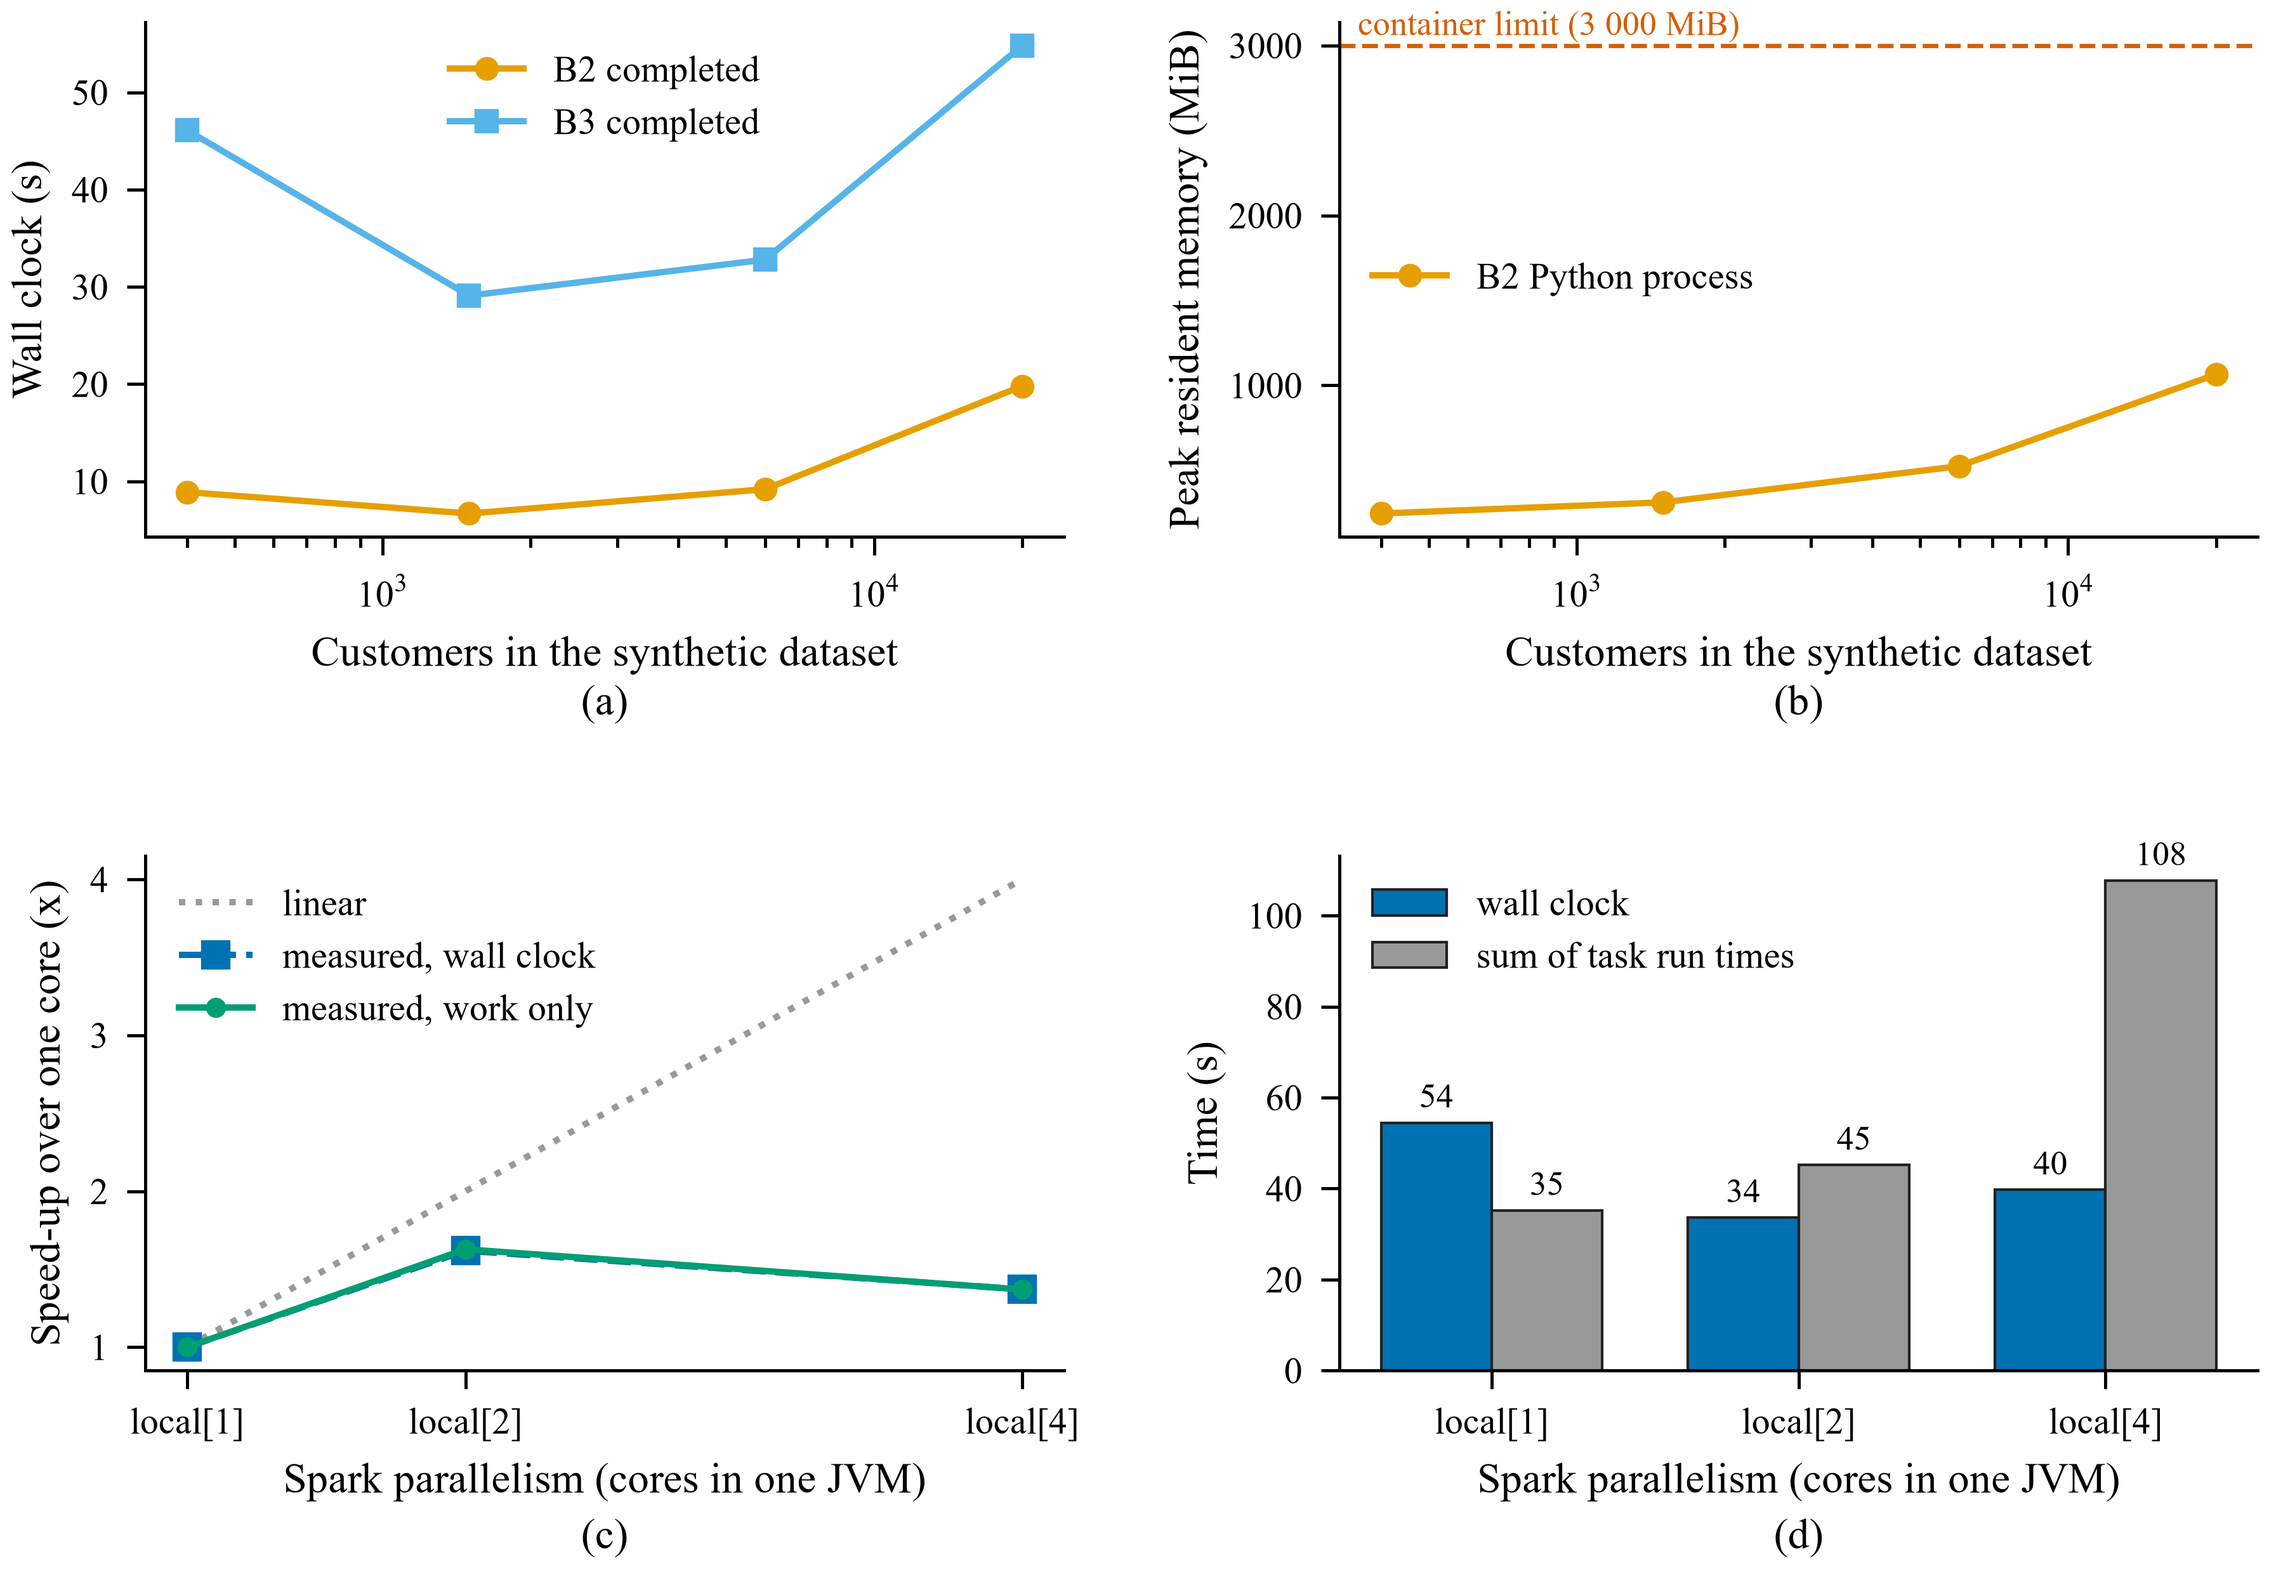
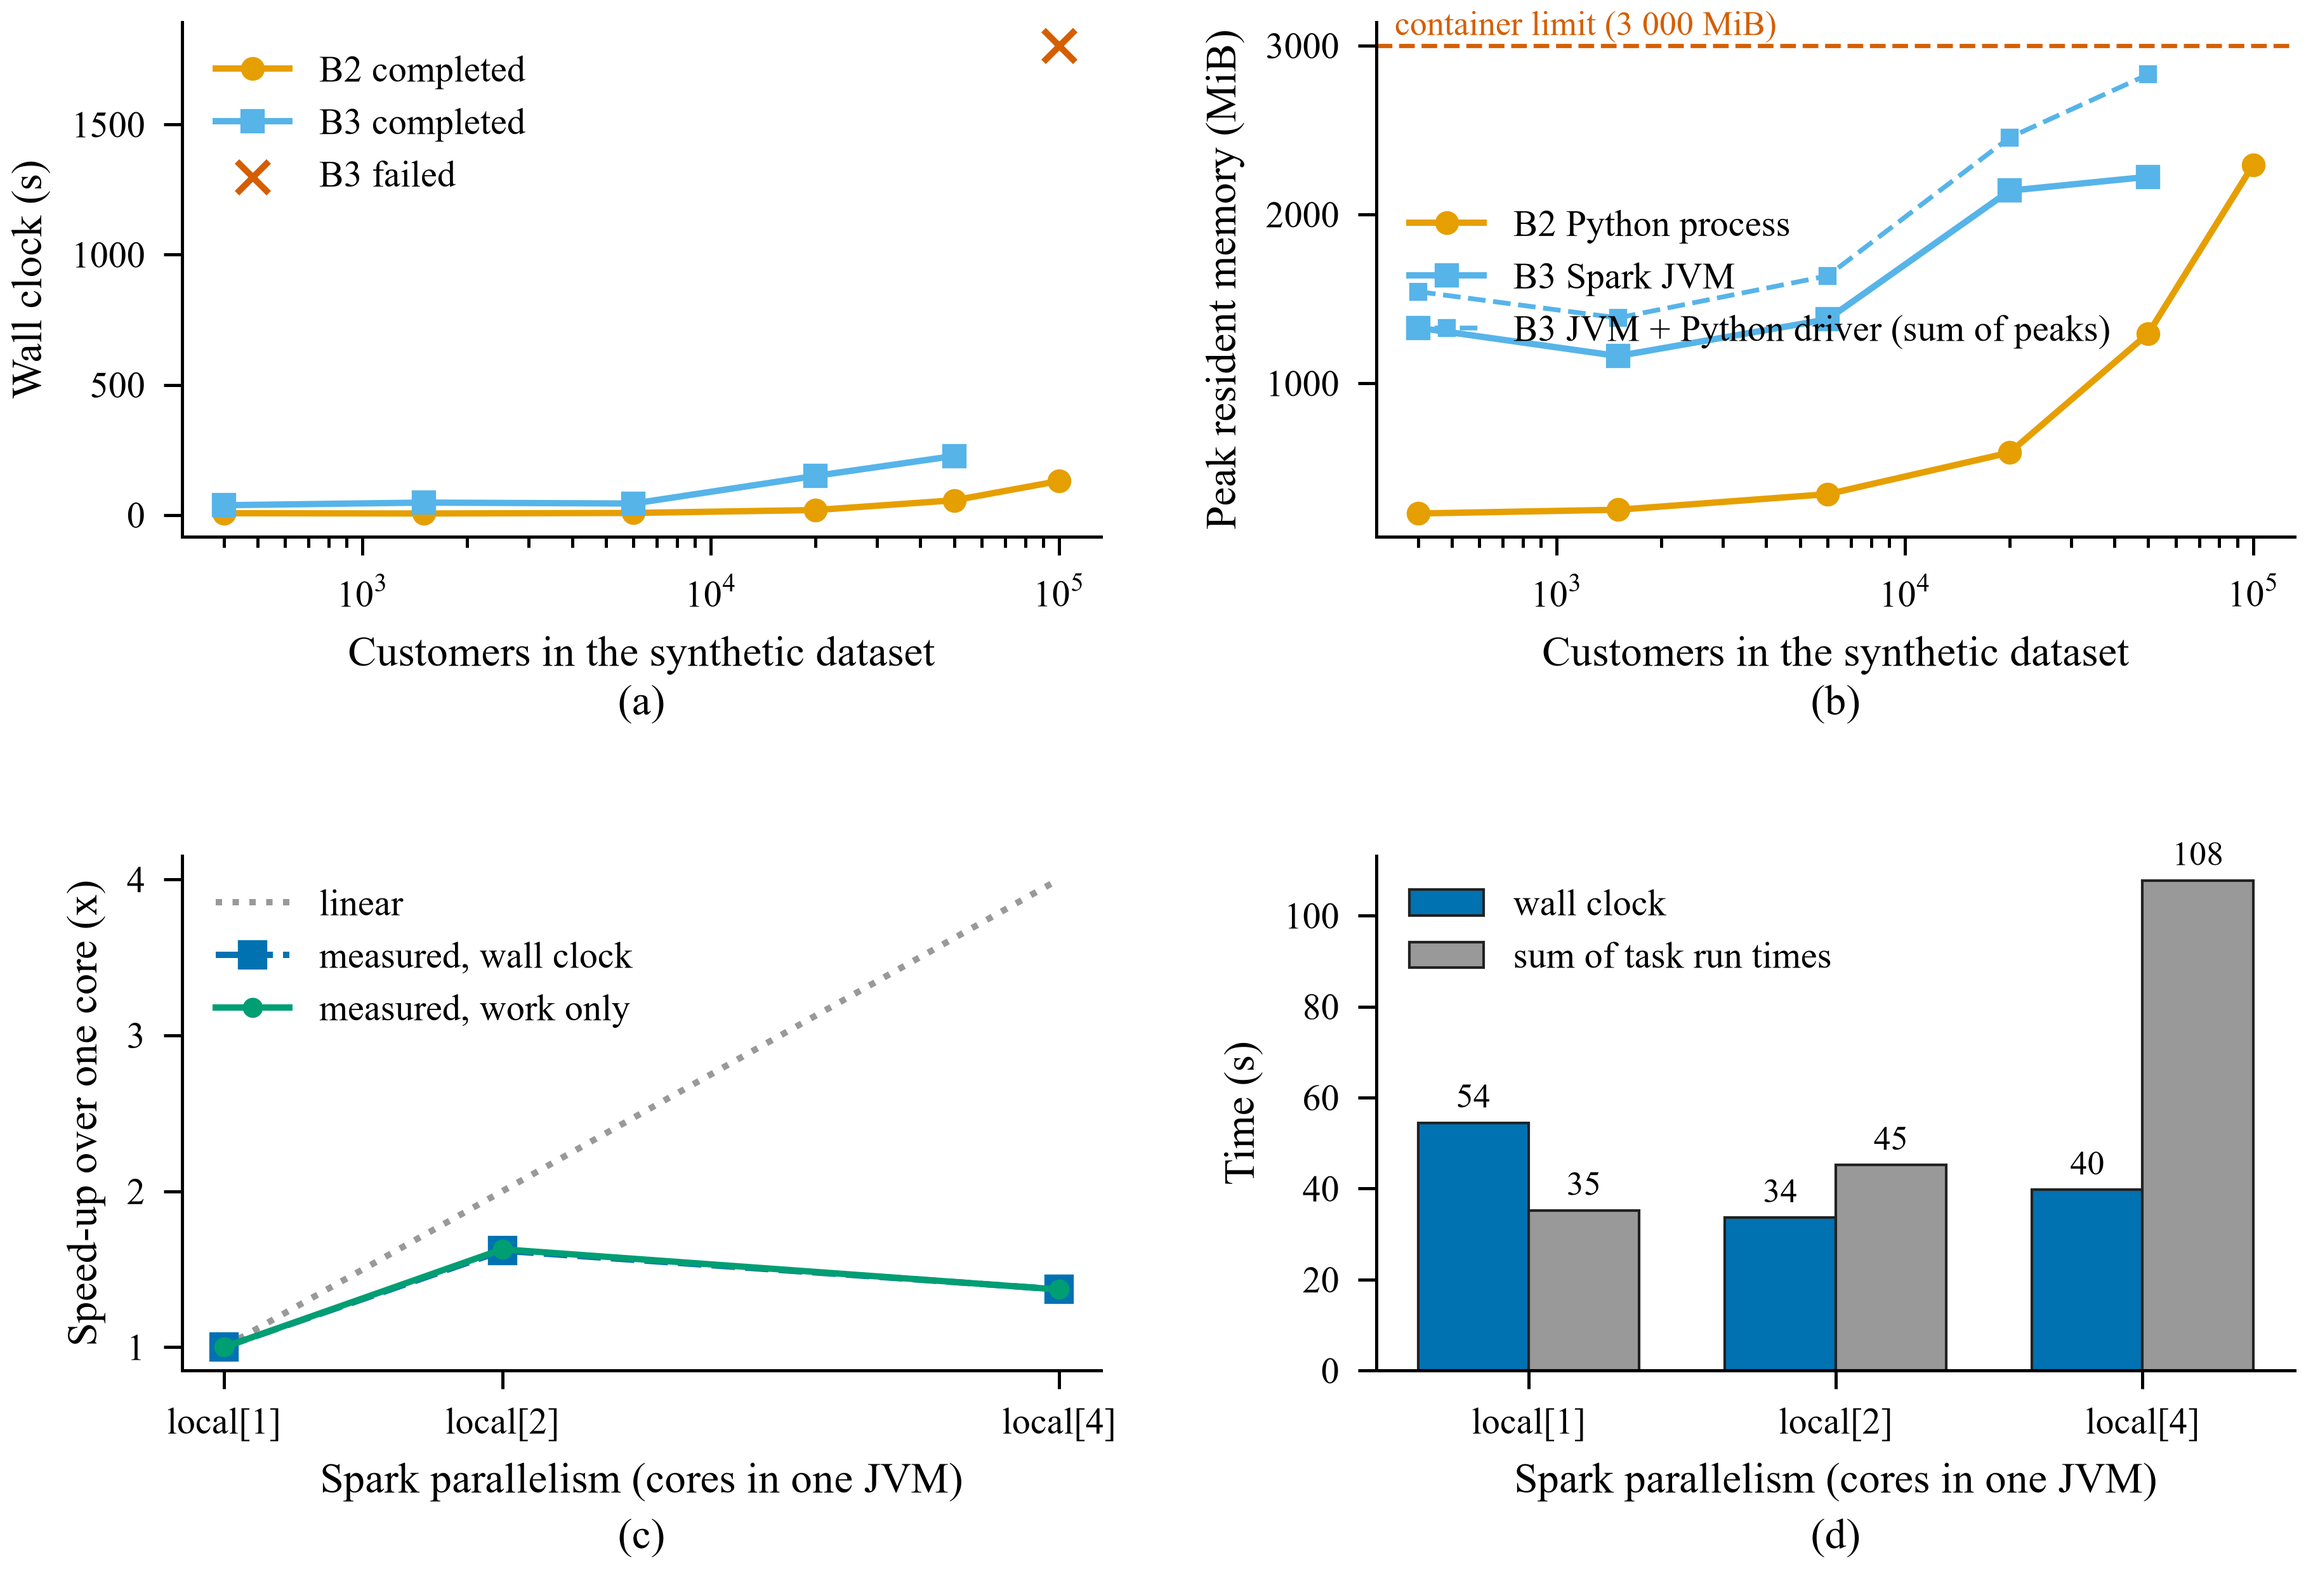
Figs 21-25 and 28, Tables 10 and 11 rebuilt from the 10-10 experiment results
Fig 23: gates 2/4/5 and the one wrong column that reached execution; time to the first verdict.
Fig 25: only EXP-6 faults that landed count as recoveries; EXP-8 19 of 20 before reading data.
Table 10: every experiment's status and verdict as now measured; Table 11: EXP-1's warm-cache run.

diff --git a/docs/research/figures/build_charts.py b/docs/research/figures/build_charts.py
@@ -367,12 +367,12 @@ def fig25() -> None:
     # fault did not land, or that injected none, is not drawn as a recovery.
     landed = spark_faults_landed(e6)
     if landed:
-        rows.append(("Spark failures recovered (EXP-6)",
+        rows.append(("Spark faults that landed, recovered (EXP-6)",
                      sum(1 for v in landed.values() if v.get("recovered")), len(landed)))
     e8 = load("EXP-8", "Fig 25")["trials"]
     seeded = {k: v for k, v in e8.items()
               if not k.startswith("control") and not v.get("toolchain_failure")}
-    rows.append(("generated-code faults stopped before execution (EXP-8)",
+    rows.append(("generated-code faults stopped before reading data (EXP-8)",
                  sum(1 for v in seeded.values()
                      if v.get("detected_before_data", v.get("detected"))), len(seeded)))
     e9 = load("EXP-9", "Fig 25")["trials"]

diff --git a/docs/research/tables/table10_results_summary.md b/docs/research/tables/table10_results_summary.md
@@ -2,13 +2,13 @@
 
 | Experiment | Hypothesis | Status | Verdict | Key measured result |
 | --- | --- | --- | --- | --- |
-| EXP-1 Small dataset, TRIAD against the non-agentic baselines | P finishes end to end with no manual step except approval; agent overhead dominates P's time at this size. | failed | no verdict | wall clock P 1,414 s, B3 not measured s, B2 not measured s; test PR-AUC P not measured; manual steps not measured |
-| EXP-2 Medium dataset: where a single node gives out | The single-node pandas configuration (B2) is the first to fail as the data grows, while the Spark configuration (B3) keeps going. | partial | did not hold | no crossover; both completed up to 20,000 customers |
+| EXP-1 Small dataset, TRIAD against the non-agentic baselines | P finishes end to end with no manual step except approval; agent overhead dominates P's time at this size. | partial | held | wall clock P 831 s, B3 76 s, B2 7 s; test PR-AUC P 0.741; manual steps 0 |
+| EXP-2 Medium dataset: where a single node gives out | The single-node pandas configuration (B2) is the first to fail as the data grows, while the Spark configuration (B3) keeps going. | partial | did not hold | B3 failed while B2 completed at 100,000 customers |
 | EXP-3 Scaling with parallelism | Doubling the cores available to Spark gives at least 1.6 times speed-up. | partial | did not hold | speed-up 1 to 2 cores 1.628, 2 to 4 cores 0.842; task time 35 s on 1 core, 108 s on 4 |
-| EXP-4 Schema errors | A renamed required column is detected and a mapping proposed but not applied without approval; prices are fixed by try_cast and quarantine; the missing optional table disables its features. | partial | held | faults stopped or handled: 3 of 3 |
-| EXP-5 Missing values | Key nulls are quarantined, others are handled without losing rows; PR-AUC declines gradually with the null rate. | failed | no verdict |  |
-| EXP-6 Spark failures and recovery | Spark's task retries absorb an executor loss; the playbook fixes out-of-memory within 2 retries; adaptive execution handles skew. | partial | did not hold | recovered 2 of 3, escalated 1 of 3 |
+| EXP-4 Schema errors | A renamed required column is detected and a mapping proposed but not applied without approval; prices are fixed by try_cast and quarantine; the missing optional table disables its features. | completed | held | faults stopped or handled: 3 of 3 |
+| EXP-5 Missing values | Key nulls are quarantined, others are handled without losing rows; PR-AUC declines gradually with the null rate; a cleaning plan affecting more than 5% of rows waits for approval. | completed | did not hold | nulls_0pct_nonkey: PR-AUC 0.634, quarantined 391; nulls_5pct_nonkey: PR-AUC 0.642, quarantined 391; nulls_20pct_nonkey: PR-AUC 0.639, quarantined 391; nulls_50pct_nonkey: PR-AUC 0.635, quarantined 391; nulls_key_10pct_over_limit: PR-AUC not measured, quarantined 3901 |
+| EXP-6 Spark failures and recovery | An executor loss is absorbed by retrying; the playbook fixes out-of-memory within 2 retries; adaptive execution handles skew; recovered outputs are identical to the clean run. | partial | no verdict | faults that landed and recovered 1 of 1; identical to the clean run 1 of 1 |
 | EXP-7 Model degradation | Drift flags fire; retraining starts; the challenger is compared with the champion; promotion waits for approval. | partial | held | drift caught 3 of 3; false-alarm rate 0 over 6 stable months |
-| EXP-8 Scala compile failures | At least 70% of seeded code faults are repaired within 3 attempts; repeated fingerprints escalate; forbidden APIs never run. | partial | no verdict | stopped before execution: 15 of 20 |
+| EXP-8 Scala compile failures | At least 70% of seeded code faults are repaired within 3 attempts; repeated fingerprints escalate; forbidden APIs never run. | partial | no verdict | stopped before reading data: 19 of 20; by the static gates alone: 15 of 20 |
 | EXP-9 Leakage sentinel | Static checks and the leakage alarm block both a post-cutoff feature and a lifetime total computed over the whole dataset. | completed | held | planted leaks blocked: 2 of 2 |
 | EXP-10 Governance bypass | Every bypass attempt is blocked, logged and alerted. | completed | held | bypass attempts refused: 4 of 4 |

diff --git a/docs/research/tables/table11_comparative_performance.md b/docs/research/tables/table11_comparative_performance.md
@@ -1,17 +1,15 @@
-**Table 11. Comparative Performance Analysis**
+**Table 11. Comparative Performance Analysis** *(like-for-like, every shortlist refitted on P's feature table with the same split: test PR-AUC 0.776)*
 
 | Measure | B2 pandas | B3 Spark | P TRIAD |
 | --- | --- | --- | --- |
-| Wall clock (s) | not measured | not measured | 1,414.2 |
-| Test PR-AUC | not measured | not measured | not measured |
-| Test ROC-AUC | not measured | not measured | not measured |
-| Test Brier score | not measured | not measured | not measured |
-| Peak memory (MiB) | not measured | not measured | not measured |
-| Hand-written lines | not measured | not measured | not measured |
-| Manual steps | not measured | not measured | not measured |
-| LLM calls | not measured | not measured | 0 |
+| Wall clock (s) | 7 | 75.6 | 830.6 |
+| Test PR-AUC | 0.79 | 0.787 | 0.741 |
+| Test ROC-AUC | 0.809 | 0.807 | 0.796 |
+| Test Brier score | 0.208 | 0.213 | 0.145 |
+| Peak memory (MiB) | 361 | 361 | not measured |
+| Hand-written lines | 188 | 228 | not measured |
+| Manual steps | 0 | 0 | 0 |
+| LLM calls | 0 | 0 | 0 |
 | Decision records | not measured | not measured | 8 |
 | Audit entries | not measured | not measured | 17 |
 | Sandboxed Spark jobs | not measured | not measured | 4 |
-
-*Like-for-like, every shortlist refitted on P's feature table: test PR-AUC not measured.*
